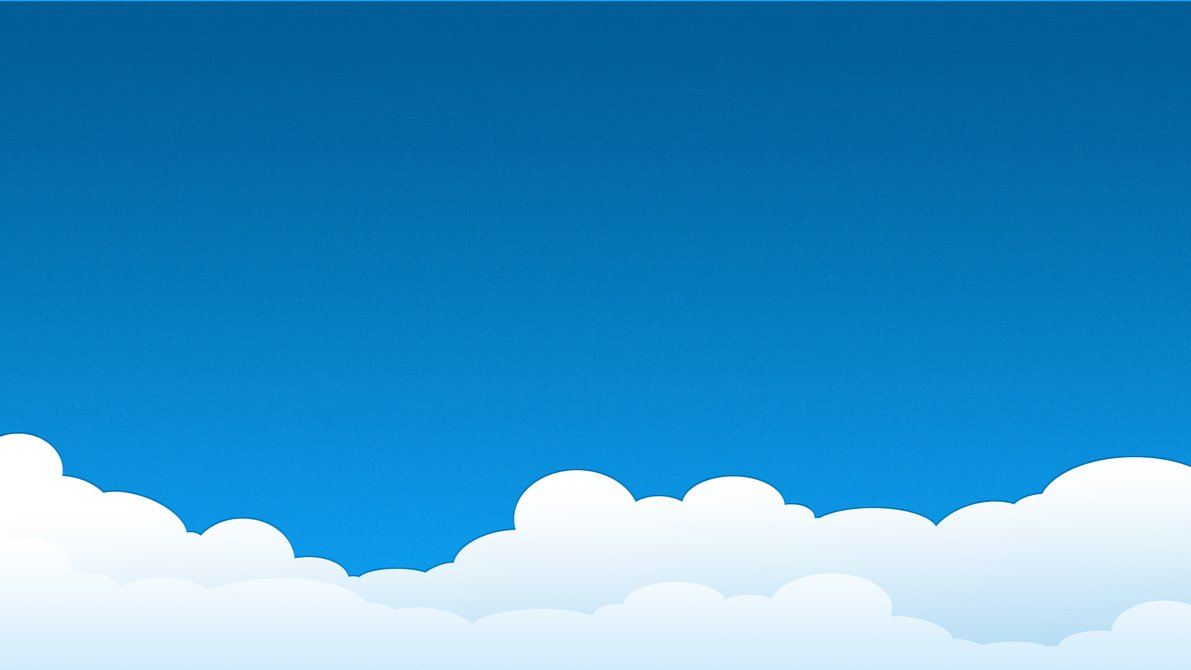
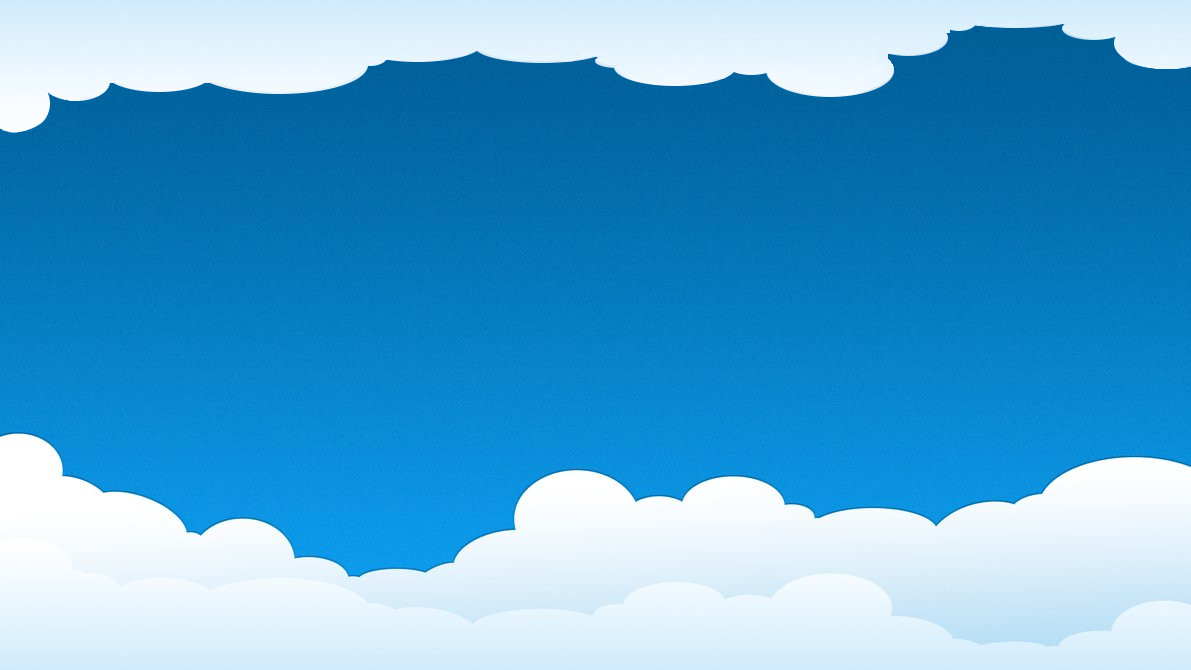
Changes background image

Changed region(s): [[0.0, 0.0, 1.0, 0.209]]

diff --git a/web/css/main.css b/web/css/main.css
@@ -2,7 +2,7 @@ body {
   padding-top: 40px;
   background-image: url('/images/cloudy-background.jpg');
   background-size: 100%;
-  opacity: 0.85;
+  opacity: 0.95;
 }
 
 .brand img {
@@ -15,3 +15,8 @@ body {
   margin: 0 auto;
 }
 
+footer a {
+	color: #333;
+	text-decoration: underline;
+
+}
